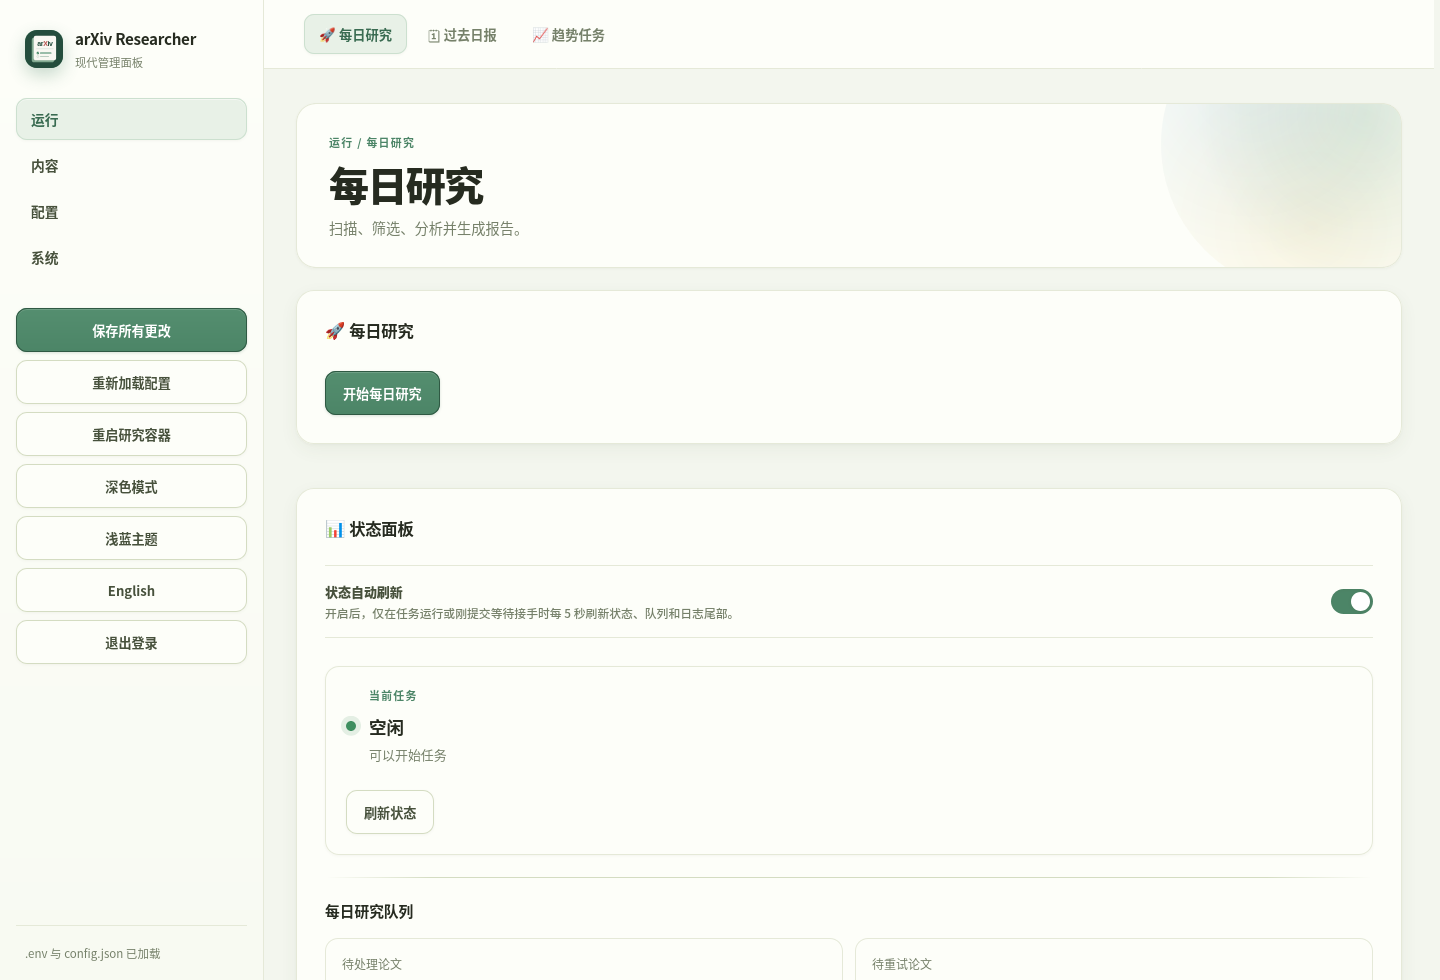
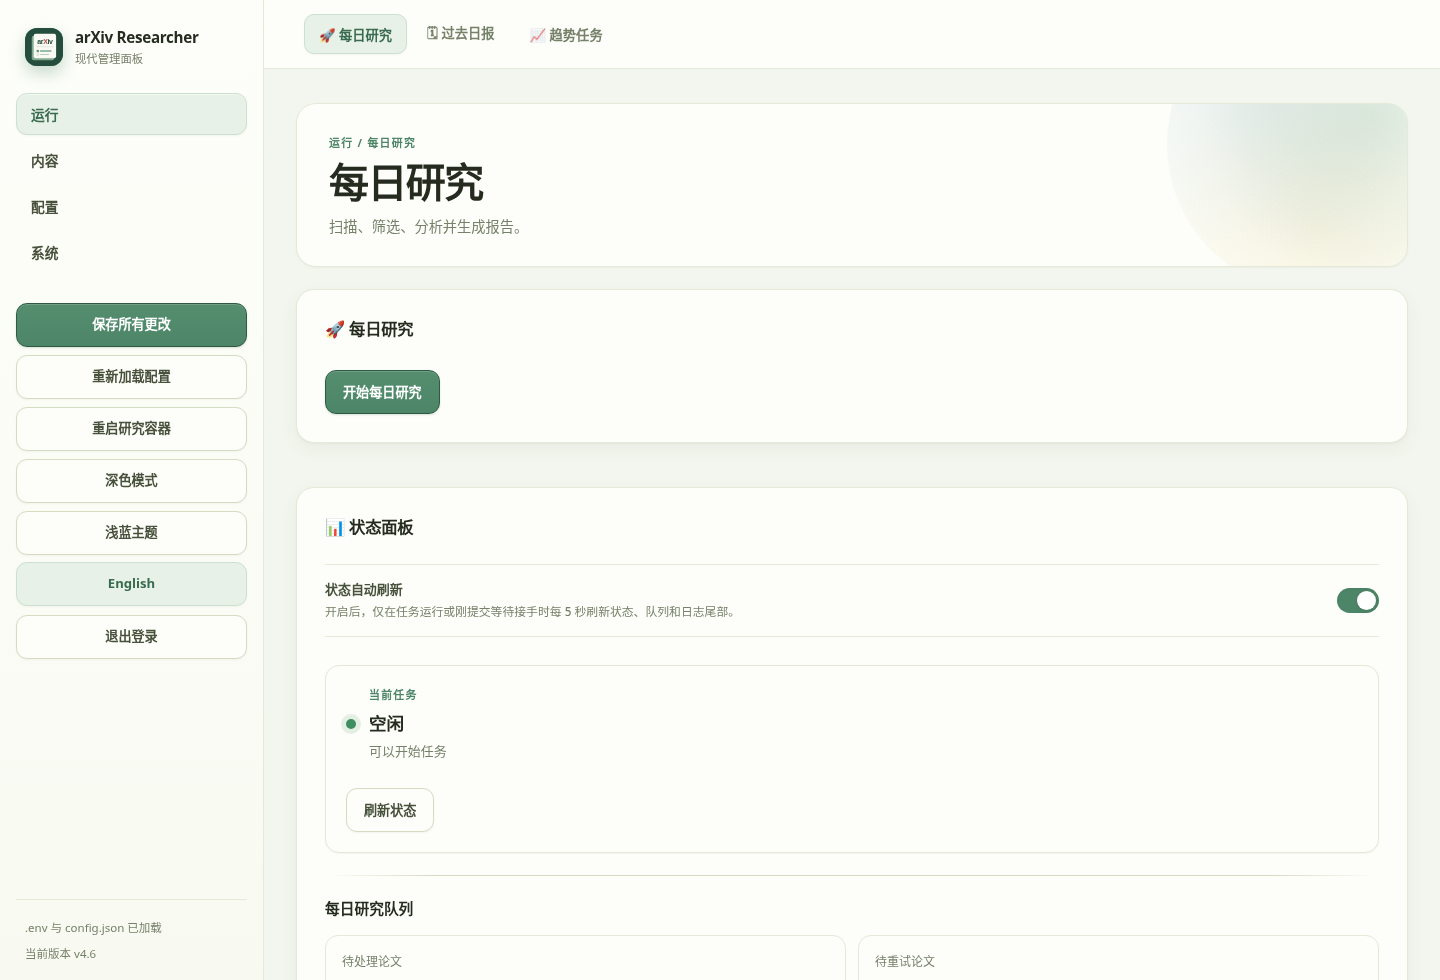
feat(webui): show installed version and available releases

diff --git a/src/modern_webui/static/app.js b/src/modern_webui/static/app.js
@@ -859,6 +859,10 @@ const storedTheme = window.localStorage.getItem("adr-modern-theme");
 const state = {
   auth: null,
   settings: null,
+  versionStatus: null,
+  versionCheckedAt: 0,
+  versionRequest: null,
+  versionGeneration: 0,
   draft: { config: {}, env: {}, clearEnv: new Set() },
   group: "run",
   page: "daily_research",
@@ -1133,6 +1137,7 @@ async function toggleLanguage() {
     await renderPage({ preserveScroll: true });
   }
   applyLocale(document);
+  renderVersionStatus();
   updateConfigurationDirtyIndicator();
   applyTheme();
 }
@@ -4719,6 +4724,12 @@ async function saveAll(showMessage = true) {
     const submittedEnv = { ...state.draft.env };
     const result = await api("/api/settings", { method: "PUT", body: { config: normalizeForSave(), env: state.draft.env, clear_env: Array.from(state.draft.clearEnv) } });
     state.settings = result;
+    state.versionStatus = null;
+    state.versionCheckedAt = 0;
+    state.versionGeneration += 1;
+    state.versionRequest = null;
+    renderVersionStatus();
+    void refreshVersionStatus();
     state.draft = { config: {}, env: {}, clearEnv: new Set() };
     state.configurationDirty = false;
     state.pageData.sources = undefined;
@@ -4755,6 +4766,43 @@ function autoRefreshEnabledForPage() {
   return true;
 }
 
+function renderVersionStatus() {
+  const current = String(state.settings?.current_version || state.versionStatus?.current_version || "unknown");
+  const currentLabel = current === "unknown" ? localeText("未知", "unknown") : `v${current.replace(/^v/i, "")}`;
+  $("#current-version").textContent = localeText(`当前版本 ${currentLabel}`, `Current version ${currentLabel}`);
+
+  const link = $("#version-update");
+  const status = state.versionStatus;
+  link.hidden = true;
+  if (!booleanValue(state.settings?.config?.auto_update_enabled, true)) return;
+  if (!status?.update_available || !status.release_url) return;
+  try {
+    const url = new URL(status.release_url);
+    if (url.origin !== "https://github.com" || !/^\/yzr278892\/arxiv-daily-researcher\/releases\/tag\/[^/]+$/.test(url.pathname)) return;
+    const latest = `v${String(status.latest_version || "").replace(/^v/i, "")}`;
+    link.href = url.href;
+    link.textContent = localeText(`发现新版本 ${latest}`, `Update available: ${latest}`);
+    link.hidden = false;
+  } catch (_) {
+    // An invalid URL should never create a misleading or unsafe update link.
+  }
+}
+
+async function refreshVersionStatus() {
+  if (!state.settings || !state.auth?.authenticated || document.hidden) return;
+  if (!booleanValue(state.settings?.config?.auto_update_enabled, true)) return;
+  if (state.versionRequest) return state.versionRequest;
+  const interval = state.versionStatus?.checked ? 6 * 60 * 60 * 1000 : 10 * 60 * 1000;
+  if (Date.now() - state.versionCheckedAt < interval) return;
+  const generation = state.versionGeneration;
+  const request = api("/api/version", { method: "GET" })
+    .then((status) => { if (generation === state.versionGeneration) { state.versionStatus = status; renderVersionStatus(); } })
+    .catch(() => { /* Keep the packaged version visible when GitHub is unavailable. */ })
+    .finally(() => { if (generation === state.versionGeneration) { state.versionCheckedAt = Date.now(); state.versionRequest = null; } });
+  state.versionRequest = request;
+  return request;
+}
+
 // A hidden tab does not need five-second progress updates, and every poll makes
 // the server read the ledger and tail a log file.  Pause the timers while the
 // page is hidden and refresh once when the operator returns.
@@ -4763,6 +4811,7 @@ function handleVisibilityChange() {
     clearTimers();
     return;
   }
+  void refreshVersionStatus();
   if (!autoRefreshEnabledForPage()) return;
   runLocalRefresh(refreshActiveTaskPanels());
 }
@@ -4854,7 +4903,9 @@ function showApp() {
   renderNavigation();
   updateConfigurationDirtyIndicator();
   applyLocale(document);
+  renderVersionStatus();
   applyTheme();
+  void refreshVersionStatus();
 }
 
 function showAuth(auth) {
@@ -4883,7 +4934,12 @@ function showAuth(auth) {
 
 async function loadSettings() {
   state.settings = await api("/api/settings");
+  state.versionStatus = null;
+  state.versionCheckedAt = 0;
+  state.versionGeneration += 1;
+  state.versionRequest = null;
   $("#version-label").textContent = "现代管理面板";
+  renderVersionStatus();
 }
 
 async function loginSubmit(event) {

diff --git a/src/modern_webui/static/app.css b/src/modern_webui/static/app.css
@@ -151,6 +151,8 @@ h3 { margin: 0 0 14px; font-size: .92rem; font-weight: 700; line-height: 1.45; }
 .sidebar-actions { display: grid; gap: 8px; margin-top: 30px; }
 .sidebar-meta { margin-top: auto; padding: 19px 9px 0; border-top: 1px solid var(--line); color: var(--muted); font-size: .72rem; }
 .sidebar-meta p { margin: 0; line-height: 1.5; }
+.sidebar-meta #current-version { margin-top: 8px; font-variant-numeric: tabular-nums; }
+.sidebar-meta #version-update { display: inline-block; margin-top: 5px; color: var(--brand-strong); font-size: .76rem; }
 
 .main-area { min-width: 0; }
 /* 顶部页面页签：浅色条 + 白胶囊激活 */
@@ -1160,7 +1162,9 @@ select::-ms-expand { display: none; }
   .brand { padding: 0 0 15px; }
   .group-navigation { display: flex; overflow-x: auto; }
   .group-button { width: auto; padding: 9px 12px; white-space: nowrap; }
-  .sidebar-actions, .sidebar-meta { display: none; }
+  .sidebar-actions, .sidebar-meta #file-status { display: none; }
+  .sidebar-meta { padding: 8px 0 0; border-top: 0; }
+  .sidebar-meta #current-version { margin-top: 0; }
   .top-tabs { min-height: 56px; padding: 9px 16px; }
   .top-tab { min-height: 38px; padding: 0 11px; }
   .page-root { width: min(100% - 32px, 720px); padding-top: 22px; }

diff --git a/src/modern_webui/static/index.html b/src/modern_webui/static/index.html
@@ -31,6 +31,8 @@
         </div>
         <div class="sidebar-meta">
           <p id="file-status">正在读取配置文件…</p>
+          <p id="current-version">当前版本</p>
+          <a id="version-update" href="https://github.com/yzr278892/arxiv-daily-researcher/releases" target="_blank" rel="noopener noreferrer" hidden></a>
         </div>
       </aside>
       <main class="main-area">

diff --git a/src/modern_webui/backend.py b/src/modern_webui/backend.py
@@ -59,6 +59,7 @@ from utils.source_registry import (
     source_display_names,
 )
 from utils.webdav_sync import WebDAVSync
+from utils import updater
 from utils.webui_trigger import (
     SUPPORTED_MODES,
     enqueue_trigger,
@@ -300,6 +301,10 @@ _TASK_RECORDS_CACHE: tuple[tuple[Any, ...], list[dict[str, Any]]] | None = None
 # that was just started or stopped (those write paths clear it eagerly).
 _RUN_STATUS_CACHE: dict[str, tuple[float, dict[str, Any]]] = {}
 _RUN_STATUS_CACHE_TTL_SECONDS = 1.5
+_VERSION_STATUS_LOCK = RLock()
+_VERSION_STATUS_CACHE: tuple[tuple[str, bool, str], float, dict[str, Any]] | None = None
+_VERSION_SUCCESS_TTL_SECONDS = 6 * 60 * 60
+_VERSION_FAILURE_TTL_SECONDS = 10 * 60
 
 
 class ModernWebUIError(ValueError):
@@ -480,6 +485,7 @@ def public_settings() -> dict[str, Any]:
     env = read_env()
     flat = flat_config()
     return {
+        "current_version": updater._get_local_version(),
         "config": flat,
         "env": {key: str(env.get(key) or "") for key in PUBLIC_ENV_FIELDS},
         "secrets": {key: bool(str(env.get(key) or "").strip()) for key in SECRET_ENV_FIELDS},
@@ -502,6 +508,62 @@ def public_settings() -> dict[str, Any]:
             for code in ARXIV_CATEGORIES
         ],
     }
+
+
+def version_status() -> dict[str, Any]:
+    """Return a cached, read-only GitHub Release check for the sidebar."""
+    import requests
+
+    current = updater._get_local_version()
+    config = flat_config()
+    enabled = _coerce_bool(config.get("auto_update_enabled"), True)
+    result: dict[str, Any] = {
+        "current_version": current,
+        "latest_version": None,
+        "update_available": False,
+        "release_url": None,
+        "checked": False,
+    }
+    if not enabled or current == "unknown":
+        return result
+
+    proxy_url = ""
+    if _coerce_bool(config.get("proxy_enabled")) and _coerce_bool(
+        config.get("proxy_update_check")
+    ):
+        proxy_url = str(config.get("proxy_url") or "").strip()
+    cache_key = (current, enabled, proxy_url)
+    global _VERSION_STATUS_CACHE
+    with _VERSION_STATUS_LOCK:
+        now = time.monotonic()
+        cached = _VERSION_STATUS_CACHE
+        if cached and cached[0] == cache_key and cached[1] > now:
+            return dict(cached[2])
+
+        ttl = _VERSION_FAILURE_TTL_SECONDS
+        try:
+            with requests.Session() as session:
+                # The saved proxy scope is authoritative; do not inherit an
+                # unrelated process-level HTTP(S)_PROXY for this request.
+                session.trust_env = False
+                if proxy_url:
+                    session.proxies.update({"http": proxy_url, "https": proxy_url})
+                release = updater._fetch_latest_release(session, lambda *_args: None)
+            if release is not None:
+                latest, url, _body = release
+                validated = updater._release_from_redirect(url)
+                if validated and validated[0] == latest:
+                    result["latest_version"] = latest
+                    result["release_url"] = validated[1]
+                    result["update_available"] = updater._is_remote_newer(latest, current) is True
+                    result["checked"] = True
+                    ttl = _VERSION_SUCCESS_TTL_SECONDS
+        except Exception as exc:
+            # Network and proxy errors may contain credentials; log only their type.
+            logger.warning("WebUI version check failed (%s)", type(exc).__name__)
+
+        _VERSION_STATUS_CACHE = (cache_key, time.monotonic() + ttl, dict(result))
+        return result
 
 
 def save_settings(

diff --git a/tests/test_modern_webui_backend.py b/tests/test_modern_webui_backend.py
@@ -22,7 +22,64 @@ class ModernBackendTests(unittest.TestCase):
         # ``run_status`` keeps a very short in-process result cache; clear it so
         # every case observes the mocks it installed instead of a prior poll.
         backend._RUN_STATUS_CACHE.clear()
+        backend._VERSION_STATUS_CACHE = None
         super().setUp()
+
+    def test_version_status_caches_new_release_and_respects_proxy_scope(self) -> None:
+        release_url = "https://github.com/yzr278892/arxiv-daily-researcher/releases/tag/v4.7"
+        config = {
+            "auto_update_enabled": True,
+            "proxy_enabled": True,
+            "proxy_update_check": True,
+            "proxy_url": "http://proxy.example.test:3128",
+        }
+        with patch.object(backend, "flat_config", return_value=config), patch.object(
+            backend.updater, "_get_local_version", return_value="4.6"
+        ), patch.object(
+            backend.updater, "_fetch_latest_release", return_value=("4.7", release_url, "")
+        ) as fetch:
+            first = backend.version_status()
+            second = backend.version_status()
+
+        self.assertEqual(first, second)
+        self.assertEqual(first["current_version"], "4.6")
+        self.assertEqual(first["latest_version"], "4.7")
+        self.assertTrue(first["update_available"])
+        self.assertTrue(first["checked"])
+        self.assertEqual(first["release_url"], release_url)
+        fetch.assert_called_once()
+        self.assertEqual(fetch.call_args.args[0].proxies["https"], config["proxy_url"])
+
+    def test_version_status_does_not_report_equal_older_or_untrusted_release(self) -> None:
+        with patch.object(backend, "flat_config", return_value={}), patch.object(
+            backend.updater, "_get_local_version", return_value="4.6"
+        ), patch.object(backend.updater, "_fetch_latest_release") as fetch:
+            for latest, url in (
+                ("4.6", "https://github.com/yzr278892/arxiv-daily-researcher/releases/tag/v4.6"),
+                ("4.5", "https://github.com/yzr278892/arxiv-daily-researcher/releases/tag/v4.5"),
+                ("4.7", "https://example.test/releases/tag/v4.7"),
+            ):
+                with self.subTest(latest=latest, url=url):
+                    backend._VERSION_STATUS_CACHE = None
+                    fetch.return_value = (latest, url, "")
+                    status = backend.version_status()
+                    self.assertFalse(status["update_available"])
+
+    def test_version_status_honors_disabled_check_and_caches_network_failure(self) -> None:
+        with patch.object(backend, "flat_config", return_value={"auto_update_enabled": False}), patch.object(
+            backend.updater, "_get_local_version", return_value="4.6"
+        ), patch.object(backend.updater, "_fetch_latest_release") as fetch:
+            self.assertFalse(backend.version_status()["checked"])
+            fetch.assert_not_called()
+
+        with patch.object(backend, "flat_config", return_value={}), patch.object(
+            backend.updater, "_get_local_version", return_value="4.6"
+        ), patch.object(backend.updater, "_fetch_latest_release", side_effect=TimeoutError) as fetch:
+            first = backend.version_status()
+            second = backend.version_status()
+            self.assertFalse(first["update_available"])
+            self.assertFalse(second["checked"])
+            fetch.assert_called_once()
 
     def test_analytics_windows_keep_rolling_and_calendar_ranges_distinct(self) -> None:
         now = datetime(2026, 8, 30, 15, 45, 30)

diff --git a/tests/test_modern_webui_app.py b/tests/test_modern_webui_app.py
@@ -49,6 +49,41 @@ class ModernWebUIAppTests(unittest.TestCase):
         self.assertEqual(settings.status_code, 503)
         self.assertIn("尚未初始化", settings.json()["detail"])
 
+        version = self.client.get("/api/version")
+        self.assertEqual(version.status_code, 503)
+
+    def test_version_endpoint_returns_read_only_status_after_authentication(self) -> None:
+        self.env["WEBUI_AUTH_ENABLED"] = "false"
+        expected = {
+            "current_version": "4.6",
+            "latest_version": "4.7",
+            "update_available": True,
+            "release_url": "https://github.com/yzr278892/arxiv-daily-researcher/releases/tag/v4.7",
+            "checked": True,
+        }
+        with patch.object(modern_app.backend, "version_status", return_value=expected) as check:
+            response = self.client.get("/api/version")
+        self.assertEqual(response.status_code, 200)
+        self.assertEqual(response.json(), expected)
+        check.assert_called_once_with()
+
+    def test_sidebar_version_and_semantic_translation_controls_are_localized(self) -> None:
+        shell = self.client.get("/").text
+        script = self.client.get("/assets/app.js").text
+        stylesheet = self.client.get("/assets/app.css").text
+        catalogue = self.client.get("/api/i18n").json()["items"]
+
+        self.assertIn('id="current-version"', shell)
+        self.assertIn('id="version-update"', shell)
+        self.assertIn('api("/api/version", { method: "GET" })', script)
+        self.assertIn('`Current version ${currentLabel}`', script)
+        self.assertIn('`Update available: ${latest}`', script)
+        self.assertIn('.sidebar-meta #current-version', stylesheet)
+        self.assertIn('key: "TRANSLATE_SEMANTIC_SCHOLAR_TLDR"', script)
+        self.assertIn('id="semantic-dependent" ${semanticEnabled ? "" : "hidden"}', script)
+        self.assertEqual(catalogue["semantic_scholar_translate_label"]["en"],
+                         "Translate TL;DRs into Chinese")
+
     def test_shared_translation_catalogue_is_available_before_sign_in(self) -> None:
         response = self.client.get("/api/i18n")
 

diff --git a/src/modern_webui/app.py b/src/modern_webui/app.py
@@ -454,6 +454,11 @@ async def settings_get(request: Request) -> JSONResponse:
     return JSONResponse(await _blocking_call(backend.public_settings))
 
 
+async def version_get(request: Request) -> JSONResponse:
+    _require_session(request)
+    return JSONResponse(await _blocking_call(backend.version_status))
+
+
 async def settings_put(request: Request) -> JSONResponse:
     _require_session(request)
     payload = await _payload(request)
@@ -1018,6 +1023,7 @@ app = Starlette(
         Route("/api/auth/login", login, methods=["POST"]),
         Route("/api/auth/logout", logout, methods=["POST"]),
         Route("/api/settings", settings_get, methods=["GET"]),
+        Route("/api/version", version_get, methods=["GET"]),
         Route("/api/settings", settings_put, methods=["PUT"]),
         Route("/api/system/restart-worker", restart_worker, methods=["POST"]),
         Route("/api/status/{kind}", status_get, methods=["GET"]),

diff --git a/README_EN.md b/README_EN.md
@@ -70,7 +70,7 @@ SQLite stores paper progress, delivery records, and favourites. Import legacy HT
 
 ### 🖥 Management panel
 
-The WebUI covers task state, settings, reports, backups, diagnostics, and token usage. It supports Chinese and English, light and dark themes, and administrator accounts. Token usage separates non-cached input, cached input, and output.
+The WebUI covers task state, settings, reports, backups, diagnostics, and token usage. It supports Chinese and English, light and dark themes, and administrator accounts. The sidebar shows the installed version and available updates. Token usage separates non-cached input, cached input, and output.
 
 </td>
 </tr>
